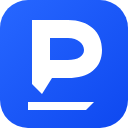
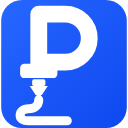
fix(branding): restore the established PrintStash mark

Changed region(s): [[0.0, 0.0, 0.8125, 1.0], [0.7812, 0.0, 1.0, 1.0]]

diff --git a/frontend/src/components/auth-print-geometry.ts b/frontend/src/components/auth-print-geometry.ts
@@ -1,6 +1,16 @@
-export const brandMarkSize = 64;
-export const brandMarkPath =
-  "M16 10H34C44.5 10 51 16 51 25S44.5 39 34 39H26L21 47L16 42V10ZM25 19V30H34C39 30 42 28 42 25S39 19 34 19H25ZM14 51H47L43 55H14V51Z";
+export const brandMarkViewBox = { x: 268, y: 118, size: 426 };
+export const brandMarkStrokes = [
+  { d: "M397 350 V165 H485 A80 80 0 0 1 485 325 H397", width: 56 },
+  {
+    d: "M397 450 C397 470 381 480 363 480 C345 480 335 490 335 502 C335 514 347 520 361 520 H492",
+    width: 30,
+  },
+];
+export const brandMarkBlocks = [
+  { x: 335, y: 330, width: 124, height: 48, rx: 14 },
+  { x: 375, y: 382, width: 44, height: 22, rx: 6 },
+];
+export const brandMarkNozzle = "M367 404 H427 L409 432 L397 442 L385 432 Z";
 
 export type Point = readonly [x: number, y: number];
 
@@ -21,11 +31,23 @@ function* rasterizeMark(): Generator<void, Point[][] | null> {
   canvas.width = rasterSize;
   canvas.height = rasterSize;
   const context = canvas.getContext("2d");
-  if (!context) return null;
+  if (!context?.roundRect) return null;
 
-  const scale = rasterSize / brandMarkSize;
-  context.scale(scale, scale);
-  context.fill(new Path2D(brandMarkPath), "evenodd");
+  const { x, y, size } = brandMarkViewBox;
+  const scale = rasterSize / size;
+  context.setTransform(scale, 0, 0, scale, -x * scale, -y * scale);
+  context.lineCap = "round";
+  context.lineJoin = "round";
+  for (const stroke of brandMarkStrokes) {
+    context.lineWidth = stroke.width;
+    context.stroke(new Path2D(stroke.d));
+  }
+  for (const block of brandMarkBlocks) {
+    context.beginPath();
+    context.roundRect(block.x, block.y, block.width, block.height, block.rx);
+    context.fill();
+  }
+  context.fill(new Path2D(brandMarkNozzle));
 
   const { data } = context.getImageData(0, 0, rasterSize, rasterSize);
   yield;

diff --git a/frontend/src/components/sidebar-nav.tsx b/frontend/src/components/sidebar-nav.tsx
@@ -12,8 +12,7 @@ import {
   type LucideIcon,
 } from "lucide-react";
 import { Printer3D } from "@/components/ui/printer-3d";
-import { useState, useSyncExternalStore } from "react";
-import { BrandMark } from "@/components/brand-mark";
+import { useId, useState, useSyncExternalStore } from "react";
 
 import { DropdownMenu } from "@/components/ui/dropdown-menu";
 import { WorkspaceMenu } from "@/components/workspace-menu";
@@ -62,9 +61,23 @@ function subscribeLastVaultHref(onStoreChange: () => void): () => void {
 }
 
 function RailMark() {
+  const clipId = useId();
   return (
     <span className="flex h-7.5 w-7.5 items-center justify-center rounded-brand bg-primary text-primary-foreground">
-      <BrandMark className="size-full" />
+      <svg viewBox="0 0 30 30" className="h-7.5 w-7.5" fill="none" aria-hidden>
+        <clipPath id={clipId}>
+          <path
+            d="M10 6h6.6a5.2 5.2 0 0 1 0 10.4h-3V24H10zM13.6 9.4V13h2.9a1.8 1.8 0 0 0 0-3.6z"
+            fillRule="evenodd"
+            clipRule="evenodd"
+          />
+        </clipPath>
+        <g clipPath={`url(#${clipId})`} fill="currentColor">
+          {[6, 9, 12, 15, 18, 21].map((y) => (
+            <rect key={y} x="8" y={y} width="16" height={y === 21 ? 3 : 2.2} />
+          ))}
+        </g>
+      </svg>
     </span>
   );
 }

diff --git a/frontend/tests/repo/branding-assets.test.ts b/frontend/tests/repo/branding-assets.test.ts
@@ -12,7 +12,7 @@ import { readFileSync } from "node:fs";
 import { resolve } from "node:path";
 
 import { describe, expect, it } from "vitest";
-import { brandMarkPath } from "../../src/components/auth-print-geometry";
+import { brandMarkStrokes } from "../../src/components/auth-print-geometry";
 
 const root = resolve(import.meta.dirname, "../..");
 
@@ -27,8 +27,8 @@ describe("faviconFor", () => {
     expect(darkIcon).toContain("#0E48F0");
     expect(darkIcon).not.toMatch(/#fb923c|#ea580c/i);
     expect(html).toContain("/theme-bootstrap.js");
-    expect(bootstrap).toContain("/icon-dark.svg?v=3");
-    expect(theme).toContain("/icon-dark.svg?v=3");
+    expect(bootstrap).toContain("/icon-dark.svg?v=4");
+    expect(theme).toContain("/icon-dark.svg?v=4");
   });
 });
 
@@ -41,8 +41,7 @@ describe("PrintStash monogram", () => {
     "../browser-extension/icon.svg",
   ])("uses the same shape in %s", (path) => {
     const asset = readFileSync(resolve(root, path), "utf8");
-    expect(asset).toContain(`d="${brandMarkPath}"`);
-    expect(asset).toContain('fill-rule="evenodd"');
+    for (const stroke of brandMarkStrokes) expect(asset).toContain(`d="${stroke.d}"`);
   });
 
   it.each([16, 32, 48, 128])("exports a square %i px extension icon", (size) => {

diff --git a/frontend/src/components/brand-mark.tsx b/frontend/src/components/brand-mark.tsx
@@ -1,15 +1,25 @@
-import { brandMarkPath, brandMarkSize } from "@/components/auth-print-geometry";
+import {
+  brandMarkBlocks,
+  brandMarkNozzle,
+  brandMarkStrokes,
+  brandMarkViewBox,
+} from "@/components/auth-print-geometry";
 
 export function BrandMark({ className = "h-5 w-5" }: { className?: string }) {
+  const { x, y, size } = brandMarkViewBox;
   return (
-    <svg
-      className={className}
-      viewBox={`0 0 ${brandMarkSize} ${brandMarkSize}`}
-      fill="currentColor"
-      aria-hidden="true"
-      focusable="false"
-    >
-      <path d={brandMarkPath} fillRule="evenodd" />
+    <svg className={className} viewBox={`${x} ${y} ${size} ${size}`} fill="none" aria-hidden="true">
+      {/* PrintStash mark: a bold "P" drawn as a 3D-printer extruder — carriage
+          block + nozzle laying down a curl of molten filament. */}
+      <g stroke="currentColor" strokeLinecap="round" strokeLinejoin="round">
+        {brandMarkStrokes.map(({ d, width }) => (
+          <path key={d} d={d} strokeWidth={width} />
+        ))}
+      </g>
+      {brandMarkBlocks.map((block) => (
+        <rect key={block.y} {...block} fill="currentColor" />
+      ))}
+      <path d={brandMarkNozzle} fill="currentColor" />
     </svg>
   );
 }

diff --git a/frontend/tests/repo/service-worker.test.ts b/frontend/tests/repo/service-worker.test.ts
@@ -31,7 +31,7 @@ function worker({
     },
     caches: {
       open,
-      keys: async () => ["printstash-shell-v6", "printstash-shell-v7", "unrelated"],
+      keys: async () => ["printstash-shell-v7", "printstash-shell-v8", "unrelated"],
       delete: async (key: string) => {
         deletions.push(key);
       },
@@ -138,7 +138,7 @@ describe("bootstrap service worker", () => {
       },
     }).invoke("fetch");
     expect(await (await response!).text()).toBe("offline bootstrap");
-    expect(open).toHaveBeenCalledWith("printstash-shell-v7");
+    expect(open).toHaveBeenCalledWith("printstash-shell-v8");
     await done();
   });
   it("reuses HTTP-cached immutable assets during reload", async () => {
@@ -193,6 +193,6 @@ describe("bootstrap service worker", () => {
   it("updates the shell without deleting unrelated caches", async () => {
     const runtime = worker({ open: async () => cache(), network: async () => new Response() });
     await runtime.invoke("activate").done();
-    expect(runtime.deletions).toEqual(["printstash-shell-v6"]);
+    expect(runtime.deletions).toEqual(["printstash-shell-v7"]);
   });
 });

diff --git a/frontend/src/components/auth-frame.tsx b/frontend/src/components/auth-frame.tsx
@@ -33,9 +33,7 @@ export function AuthFrame({
       <div className="flex min-w-0 flex-1 flex-col">
         <header className="flex h-14 shrink-0 items-center justify-between gap-2 px-6 sm:h-16">
           <div className="flex min-w-0 items-center gap-2.5 text-foreground">
-            <span className="size-8 shrink-0 rounded-brand bg-primary text-primary-foreground">
-              <BrandMark className="size-full" />
-            </span>
+            <BrandMark className="size-6 shrink-0" />
             <span className="text-base font-semibold tracking-tight">PrintStash</span>
           </div>
           <div className="flex shrink-0 items-center gap-1">

diff --git a/frontend/src/lib/__tests__/pwa.test.ts b/frontend/src/lib/__tests__/pwa.test.ts
@@ -97,7 +97,7 @@ describe("registerServiceWorker", () => {
   it("uses versioned caches, offline navigation fallback, and revalidation", () => {
     const source = readFileSync(`${process.cwd()}/public/sw.js`, "utf8");
 
-    expect(source).toContain('const CACHE = "printstash-shell-v7"');
+    expect(source).toContain('const CACHE = "printstash-shell-v8"');
     expect(source).toContain('cached("/offline.html")');
     expect(source).toMatch(/event\.waitUntil\(\s*network\.then/);
     expect(source).toContain('event.data?.type === "SKIP_WAITING"');

diff --git a/frontend/tests/e2e-real/onboarding/first-model.spec.ts b/frontend/tests/e2e-real/onboarding/first-model.spec.ts
@@ -6,9 +6,7 @@ import { gcodeFor } from "../util";
 const loseResponse = process.env.PLAYWRIGHT_ONBOARDING_LOST_RESPONSE === "1";
 
 test.describe("Browser onboarding", () => {
-  test("keeps the localized setup progress and action visible on desktop", async ({
-    page,
-  }, testInfo) => {
+  test("keeps the localized setup steps visible on desktop", async ({ page }, testInfo) => {
     await page.addInitScript(() => {
       localStorage.setItem("printstash.locale", "es");
       localStorage.setItem("printstash.theme", "dark");

diff --git a/frontend/tests/repo/theme-bootstrap.test.ts b/frontend/tests/repo/theme-bootstrap.test.ts
@@ -54,14 +54,14 @@ describe("theme bootstrap", () => {
   it("restores a saved dark preference", () => {
     expect(runBootstrap("dark", false)).toEqual({
       dark: true,
-      faviconHref: "/icon-dark.svg?v=3",
+      faviconHref: "/icon-dark.svg?v=4",
     });
   });
 
   it("honours a saved light preference over a dark OS preference", () => {
     expect(runBootstrap("light", true)).toEqual({
       dark: false,
-      faviconHref: "/icon-light.svg?v=3",
+      faviconHref: "/icon-light.svg?v=4",
     });
   });
 

diff --git a/frontend/public/sw.js b/frontend/public/sw.js
@@ -1,5 +1,5 @@
 /* global self, caches */
-const CACHE = "printstash-shell-v7";
+const CACHE = "printstash-shell-v8";
 const BOOTSTRAP = ["/theme-bootstrap.js", "/locale-shell.js"];
 const PUBLIC_FILES = [
   "/logo.svg",
@@ -16,8 +16,8 @@ const SHELL = [
   "/manifest.webmanifest",
   "/icon-light.svg",
   "/icon-dark.svg",
-  "/icon-light.svg?v=3",
-  "/icon-dark.svg?v=3",
+  "/icon-light.svg?v=4",
+  "/icon-dark.svg?v=4",
 ];
 
 self.addEventListener("install", (event) => {

diff --git a/frontend/src/lib/theme.ts b/frontend/src/lib/theme.ts
@@ -30,7 +30,7 @@ function applyTheme(mode: ThemeMode) {
   document.documentElement.classList.toggle("dark", dark);
   const favicon = document.getElementById("app-favicon");
   if (favicon instanceof HTMLLinkElement)
-    favicon.href = dark ? "/icon-dark.svg?v=3" : "/icon-light.svg?v=3";
+    favicon.href = dark ? "/icon-dark.svg?v=4" : "/icon-light.svg?v=4";
 }
 
 export function setThemeMode(mode: ThemeMode) {

diff --git a/frontend/public/theme-bootstrap.js b/frontend/public/theme-bootstrap.js
@@ -15,7 +15,7 @@
     favicon.id = "app-favicon";
     favicon.rel = "icon";
     favicon.type = "image/svg+xml";
-    favicon.href = dark ? "/icon-dark.svg?v=3" : "/icon-light.svg?v=3";
+    favicon.href = dark ? "/icon-dark.svg?v=4" : "/icon-light.svg?v=4";
     document.head.appendChild(favicon);
   } catch {
     // Storage can be unavailable in hardened browser contexts. Light mode and
